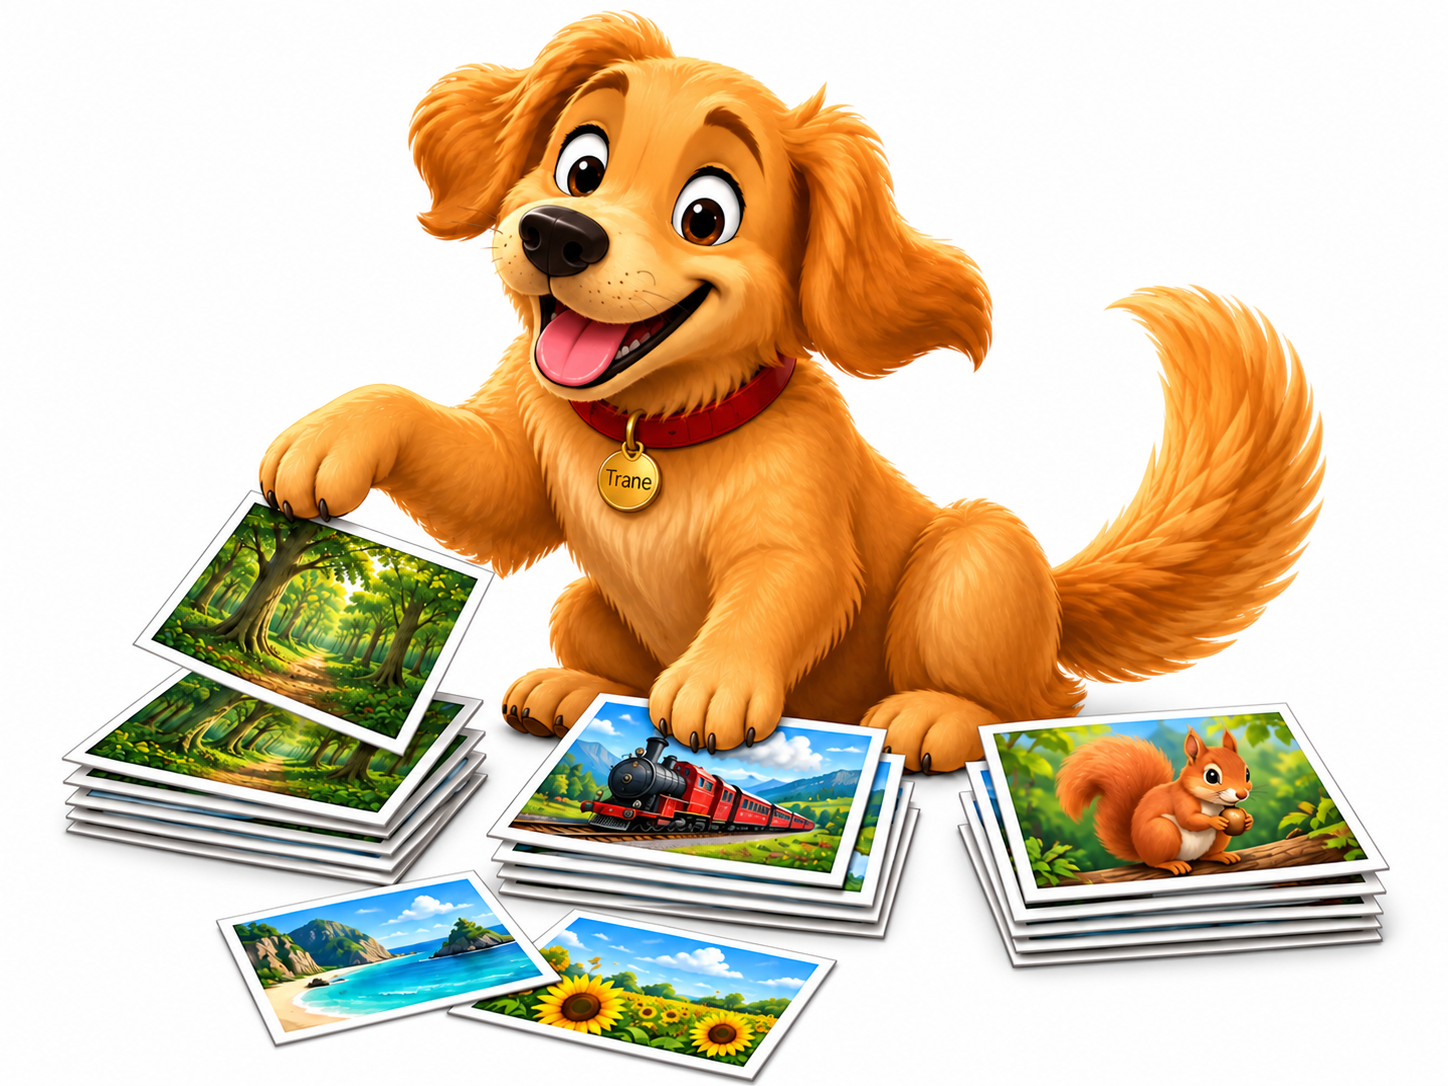
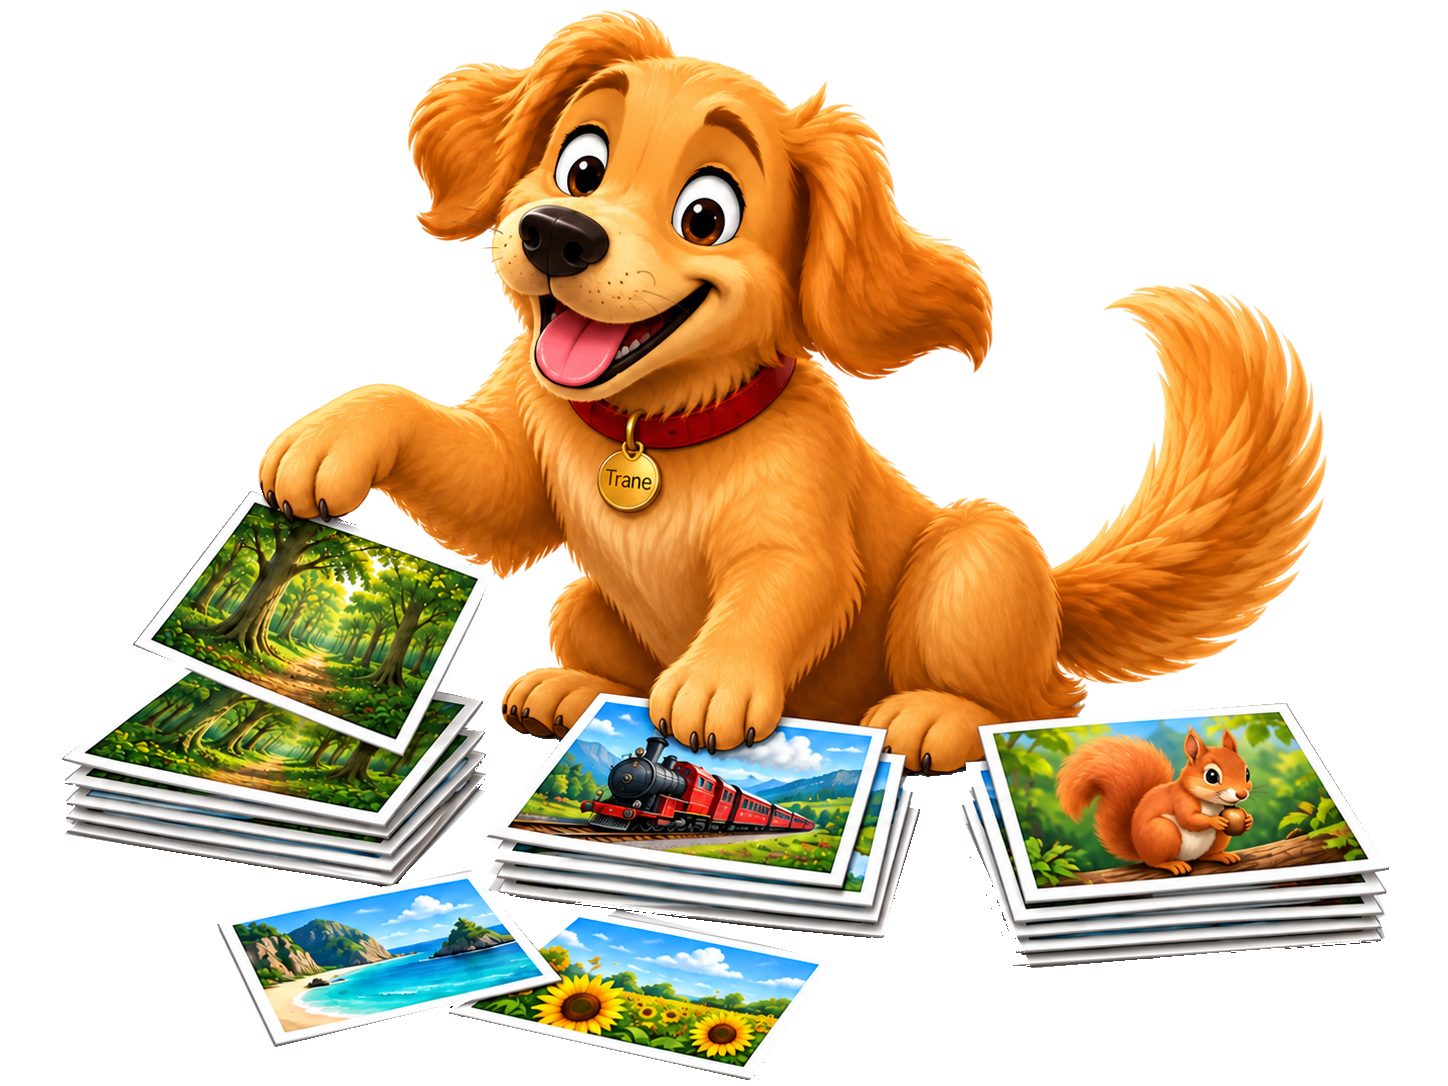
fix(explorer): finalize transparent onboarding artwork

diff --git a/assets/trane/explorer-intro.md b/assets/trane/explorer-intro.md
@@ -5,14 +5,26 @@ the Visual Similarity Explorer first-use page. Identity references were the
 public repository artwork `TaneWithFrame.webp` and `sorting_images.png`.
 No user photographs were supplied. The small pictures are invented subjects.
 
-Selected asset: `internal/ui/assets/explorer-intro.png`, copied unchanged from
-the generated output `exec-53cb7416-c4f7-4d94-a25a-8a8045988983.png`.
-It has an opaque white background. Earlier attempts painted a checkerboard and
-were rejected; this asset is intentionally presented as a white illustration.
+Selected asset: `internal/ui/assets/explorer-intro.png`, derived from the
+generated output `exec-53cb7416-c4f7-4d94-a25a-8a8045988983.png`. Earlier alpha
+requests painted a checkerboard, so the selected generation used white. Ronin
+explicitly authorized local background removal on September 10, 2026.
+
+The final edit uses a local Go pixel pass: connected-background removal,
+hand-defined masks protecting all photo borders, and edge color decontamination
+to remove the white matte. It preserves the original 1448 x 1086 composition.
+No additional network requests or private images were used for this edit.
+
+The final PNG has 812,060 transparent pixels, 19,730 partial-alpha edge pixels,
+and 740,738 opaque pixels. All canvas corners are transparent. The artwork was
+inspected against a dark background and in actual Fyne setup-page captures at
+720 x 660 and 520 x 400. Trane, all three stacks and both loose prints remain
+intact. Local extraction/check scripts and captures are retained in
+`.scratch/visual-similarity-explorer/evidence/release-setup-20260910/`.
 
 Original generation prompt:
 
 > Use case: illustration-story. Asset type: transparent mascot illustration for PicFetch's first-use Visual Similarity Explorer explanation and download page. Generate a NEW illustration using the supplied images only as character/style references. Trane is the friendly golden-orange puppy in the references: warm expressive brown eyes, floppy ears, fluffy golden fur, cream muzzle, black nose, red collar and small round gold tag. Preserve his recognizable appearance and polished storybook / soft 3D illustrative style. Scene: Trane sitting comfortably, happily sorting loose photographic prints into three small distinct stacks with his front paws; one lifted print is being placed neatly onto a stack. The top pictures show clear visual subjects: a forest landscape, a train, and an animal, conveying grouping related pictures. A few loose prints and three clearly readable layered stacks, all compactly arranged around him. Natural dog anatomy with exactly four paws; no human hands. Landscape 4:3 composition, full character, tail and all picture stacks comfortably inside the frame, balanced silhouette and generous clear margin. Genuine transparent background with alpha, only a very subtle contact shadow, no colored backdrop, glow, gradient, checkerboard, surrounding scene, UI, headings, labels, or watermark. No private photographs: all small pictures are invented generic illustrations.
 
-Final edit requested a pure white RGB (255, 255, 255) opaque paper background,
+The last image-generator edit requested a pure white RGB (255, 255, 255) background,
 preserving Trane and the photo stacks and removing the painted checkerboard.

diff --git a/finished_refactorings/2026-09-10-explorer-release-setup.md b/finished_refactorings/2026-09-10-explorer-release-setup.md
@@ -1,6 +1,6 @@
 # Explorer regular-release setup
 
-Status: active. Route: Deep (runtime download, native worker lifecycle and release
+Status: complete (2026-09-10). Route: Deep (runtime download, native worker lifecycle and release
 integration). Lead owns design, implementation, review, fixes and the final gate.
 
 ## Accepted scope
@@ -84,8 +84,9 @@ inspect transparency and native layout, and record the prompt/tool provenance.
 The scout confirmed Mac-only admission, launcher/OS denial, pollable stdin and
 runtime manifest. Model/grouping/cache code is shared. Existing bindings contain
 Unix and Windows loaders, but native behavior on Linux/Windows is unverified.
-Regular-release platform scope was asked asynchronously; setup/privacy/artwork
-work is independent and continues. Lead is reproducing the cross-cgo CI risk.
+The release setup qualifies the Apple Silicon Mac path. Linux/Windows native
+support remains explicit follow-up work in `todos.md`; the shared Windows
+no-cgo build regression was reproduced and fixed.
 
 ## Implementation evidence
 
@@ -115,6 +116,15 @@ work is independent and continues. Lead is reproducing the cross-cgo CI risk.
   and the real-worker retry returns to Download. The full verification is rerun
   after this final code change.
 - Ronin requested actual transparent artwork after seeing the white fallback.
-  Local background removal was asked explicitly because image-editing tool
-  instructions require that request before switching methods. Awaiting answer;
-  opaque artwork must not be presented as a transparent final asset.
+  Ronin explicitly authorized local background removal. The final 1448 x 1086
+  PNG has verified zero/partial/full alpha, preserves all photo stacks/prints,
+  and was inspected on dark backgrounds and both setup-page captures.
+  The original opaque PNG failed the corner-alpha check; the final asset passes.
+- Final `make verify`: PASS, exit 0, including all Linux race partitions.
+  Artifacts: `.scratch/race-runs/20260910T190212Z-EDTNgK`. The final bitmap
+  edit was separately checked with the setup-window regression (PASS, 1.053 s),
+  visual captures, and native build/packaging. No application code changed after
+  the gate began.
+- Release preparation is complete; no version bump, tag or release publication
+  was performed. Ronin committed the setup implementation as `c258386`; the
+  transparent artwork and closeout documents remain reviewable changes.

diff --git a/todos.md b/todos.md
@@ -11,7 +11,10 @@
   progress, cancellation and retry. Pictures stay local; there is no analytics
   or feedback collection. Help, About and setup link to GitHub Discussions,
   and the privacy policy explains the public asset downloads. Explorer currently
-  supports Apple Silicon Macs.
+  supports Apple Silicon Macs. The introduction fills the window and uses
+  verified transparent Trane artwork. Setup, offline inference, packaging and
+  the canonical verification gate pass; see the
+  [completed release setup plan](finished_refactorings/2026-09-10-explorer-release-setup.md).
 
 - **Explorer and Mosaic access.** Shift+S opens the Visual Similarity Explorer;
   Shift+M opens Mosaic from the loaded collection, or the current selection/
@@ -183,14 +186,6 @@ canonical Linux golden gate passed. MA-025 is an accepted edge case below.
 
 ## TODO
 
-### Transparent Explorer introduction artwork
-
-The first-use page is implemented and fills the window, but Trane's current PNG
-has an opaque white background. Replace it with a verified alpha cutout, inspect
-the result on the app background, and rebuild the embedded asset. Local
-background removal is awaiting Ronin's choice after the generator returned
-opaque results. See the [release setup plan](plans/2026-09-10-explorer-release-setup.md).
-
 ### Explorer on Linux and Windows
 
 Regular-release preparation adds first-use setup on the qualified Apple Silicon
@@ -200,7 +195,7 @@ inference/lifecycle qualification on their supported architectures. The common
 model, grouping, map and cache code is shared; passing a cross-build alone does
 not qualify native Explorer execution. The no-cgo fallback restores the existing
 Windows package-build checks. See the
-[release setup plan](plans/2026-09-10-explorer-release-setup.md).
+[release setup plan](finished_refactorings/2026-09-10-explorer-release-setup.md).
 
 ### Similarity-map zoom trial
 
